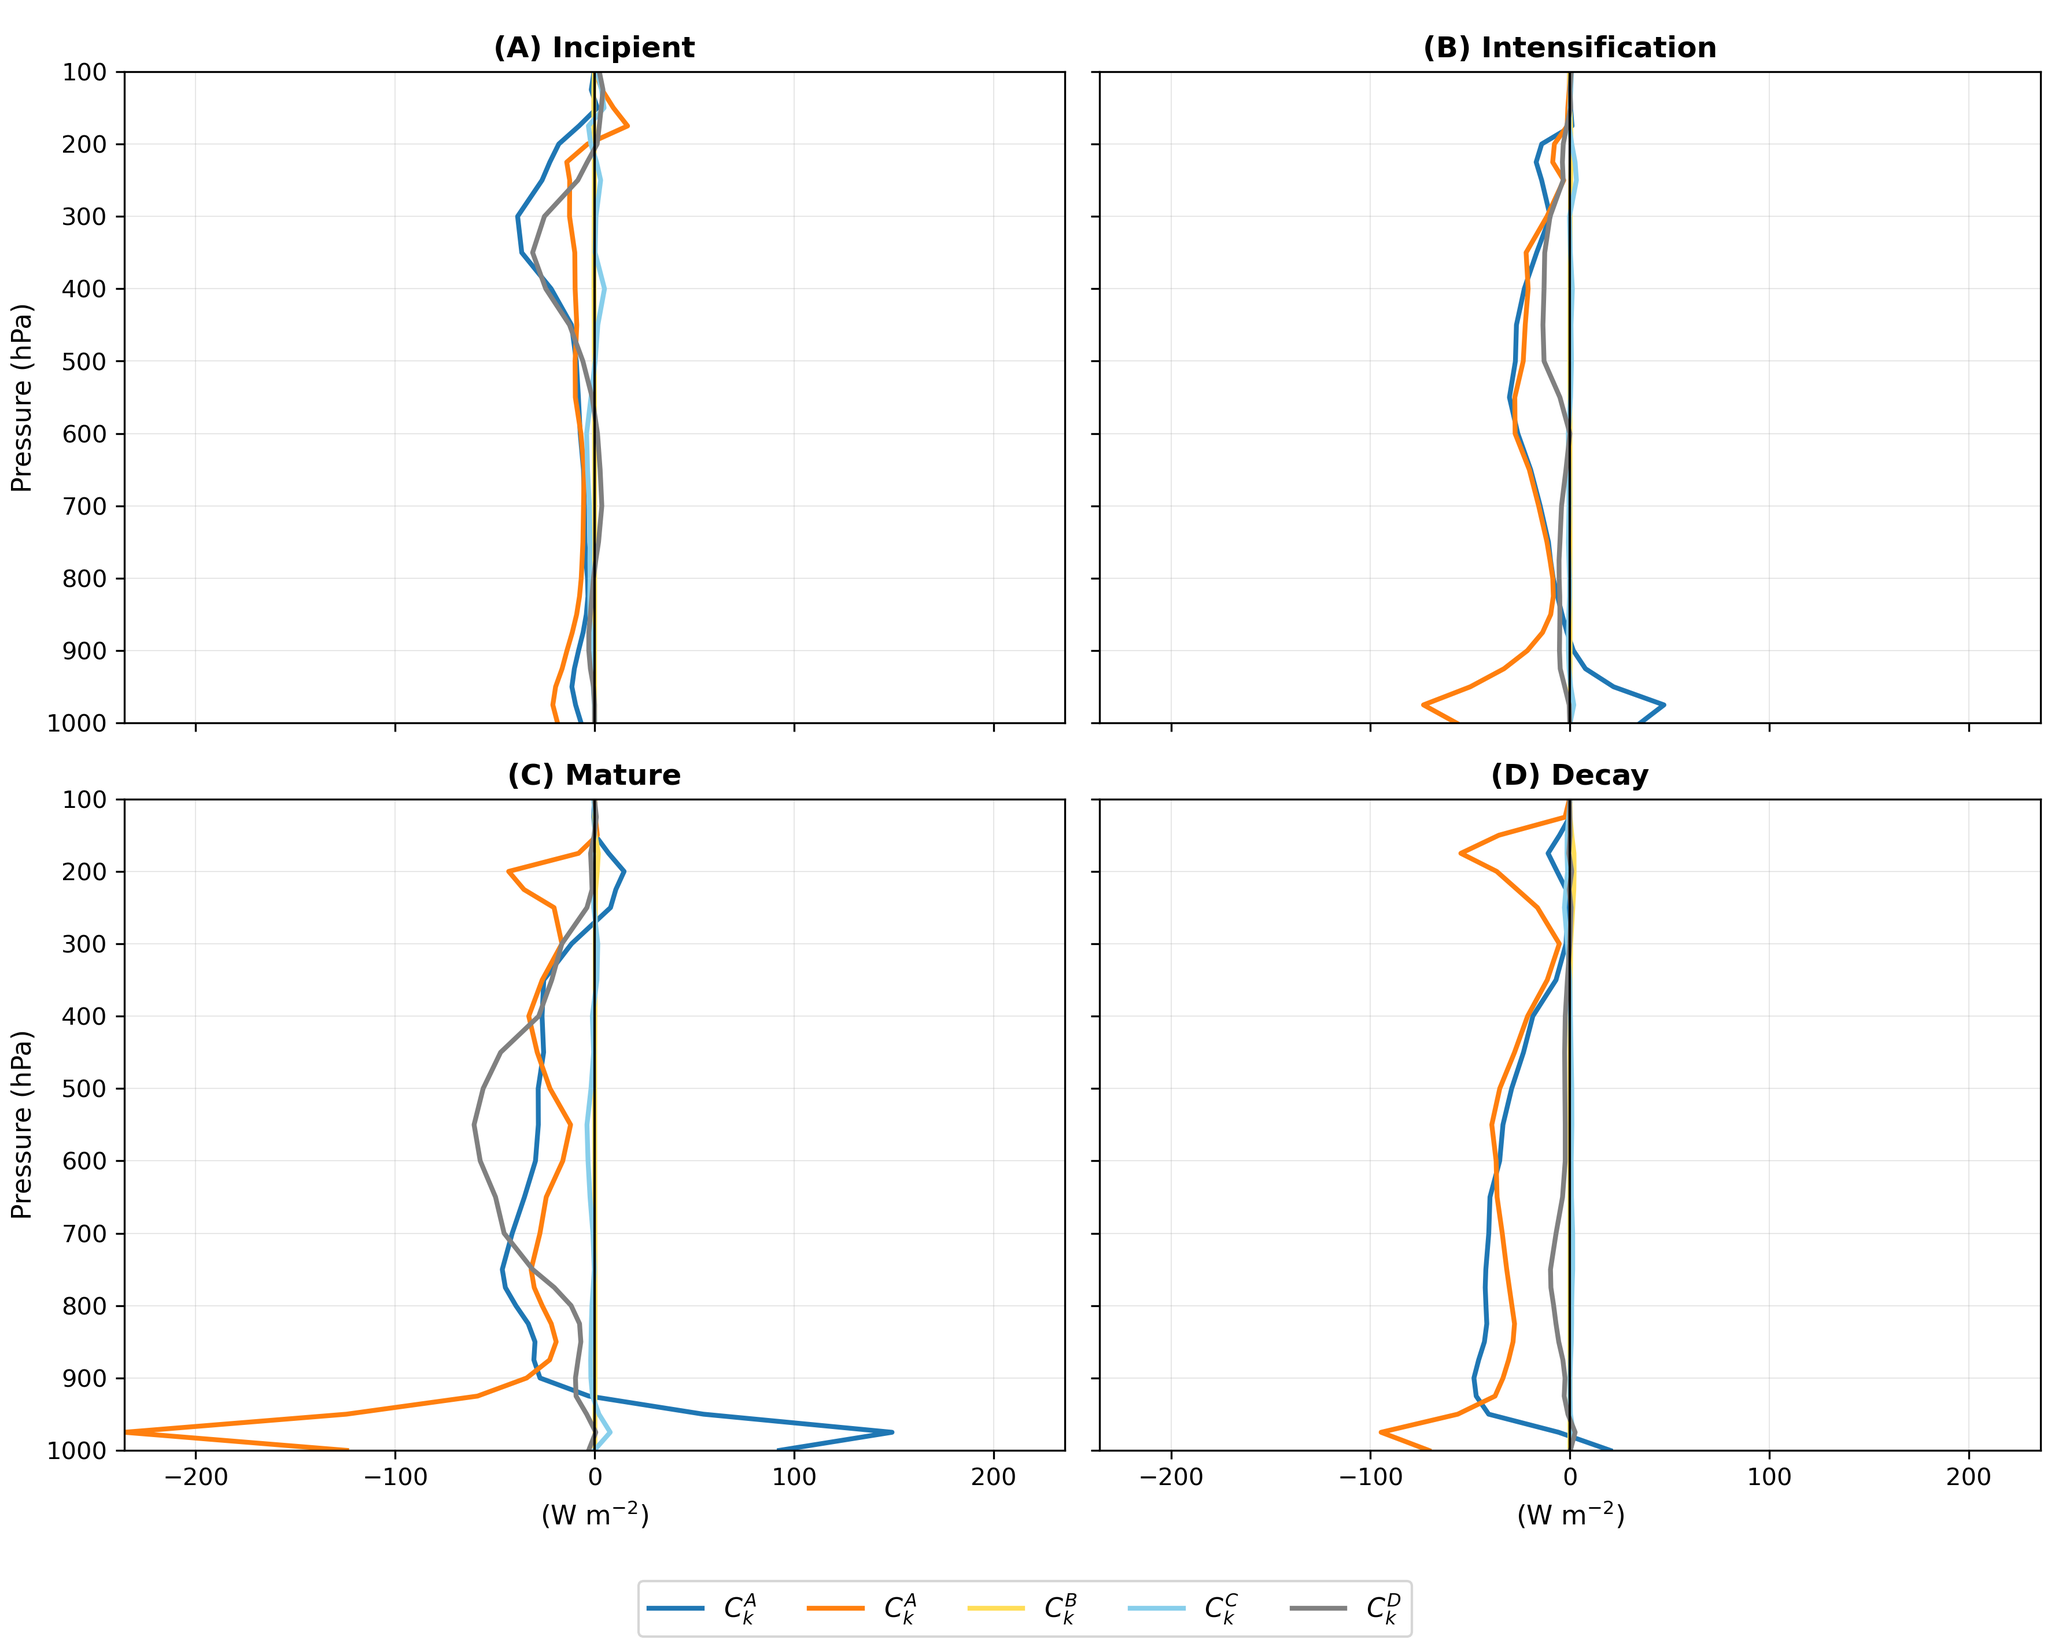
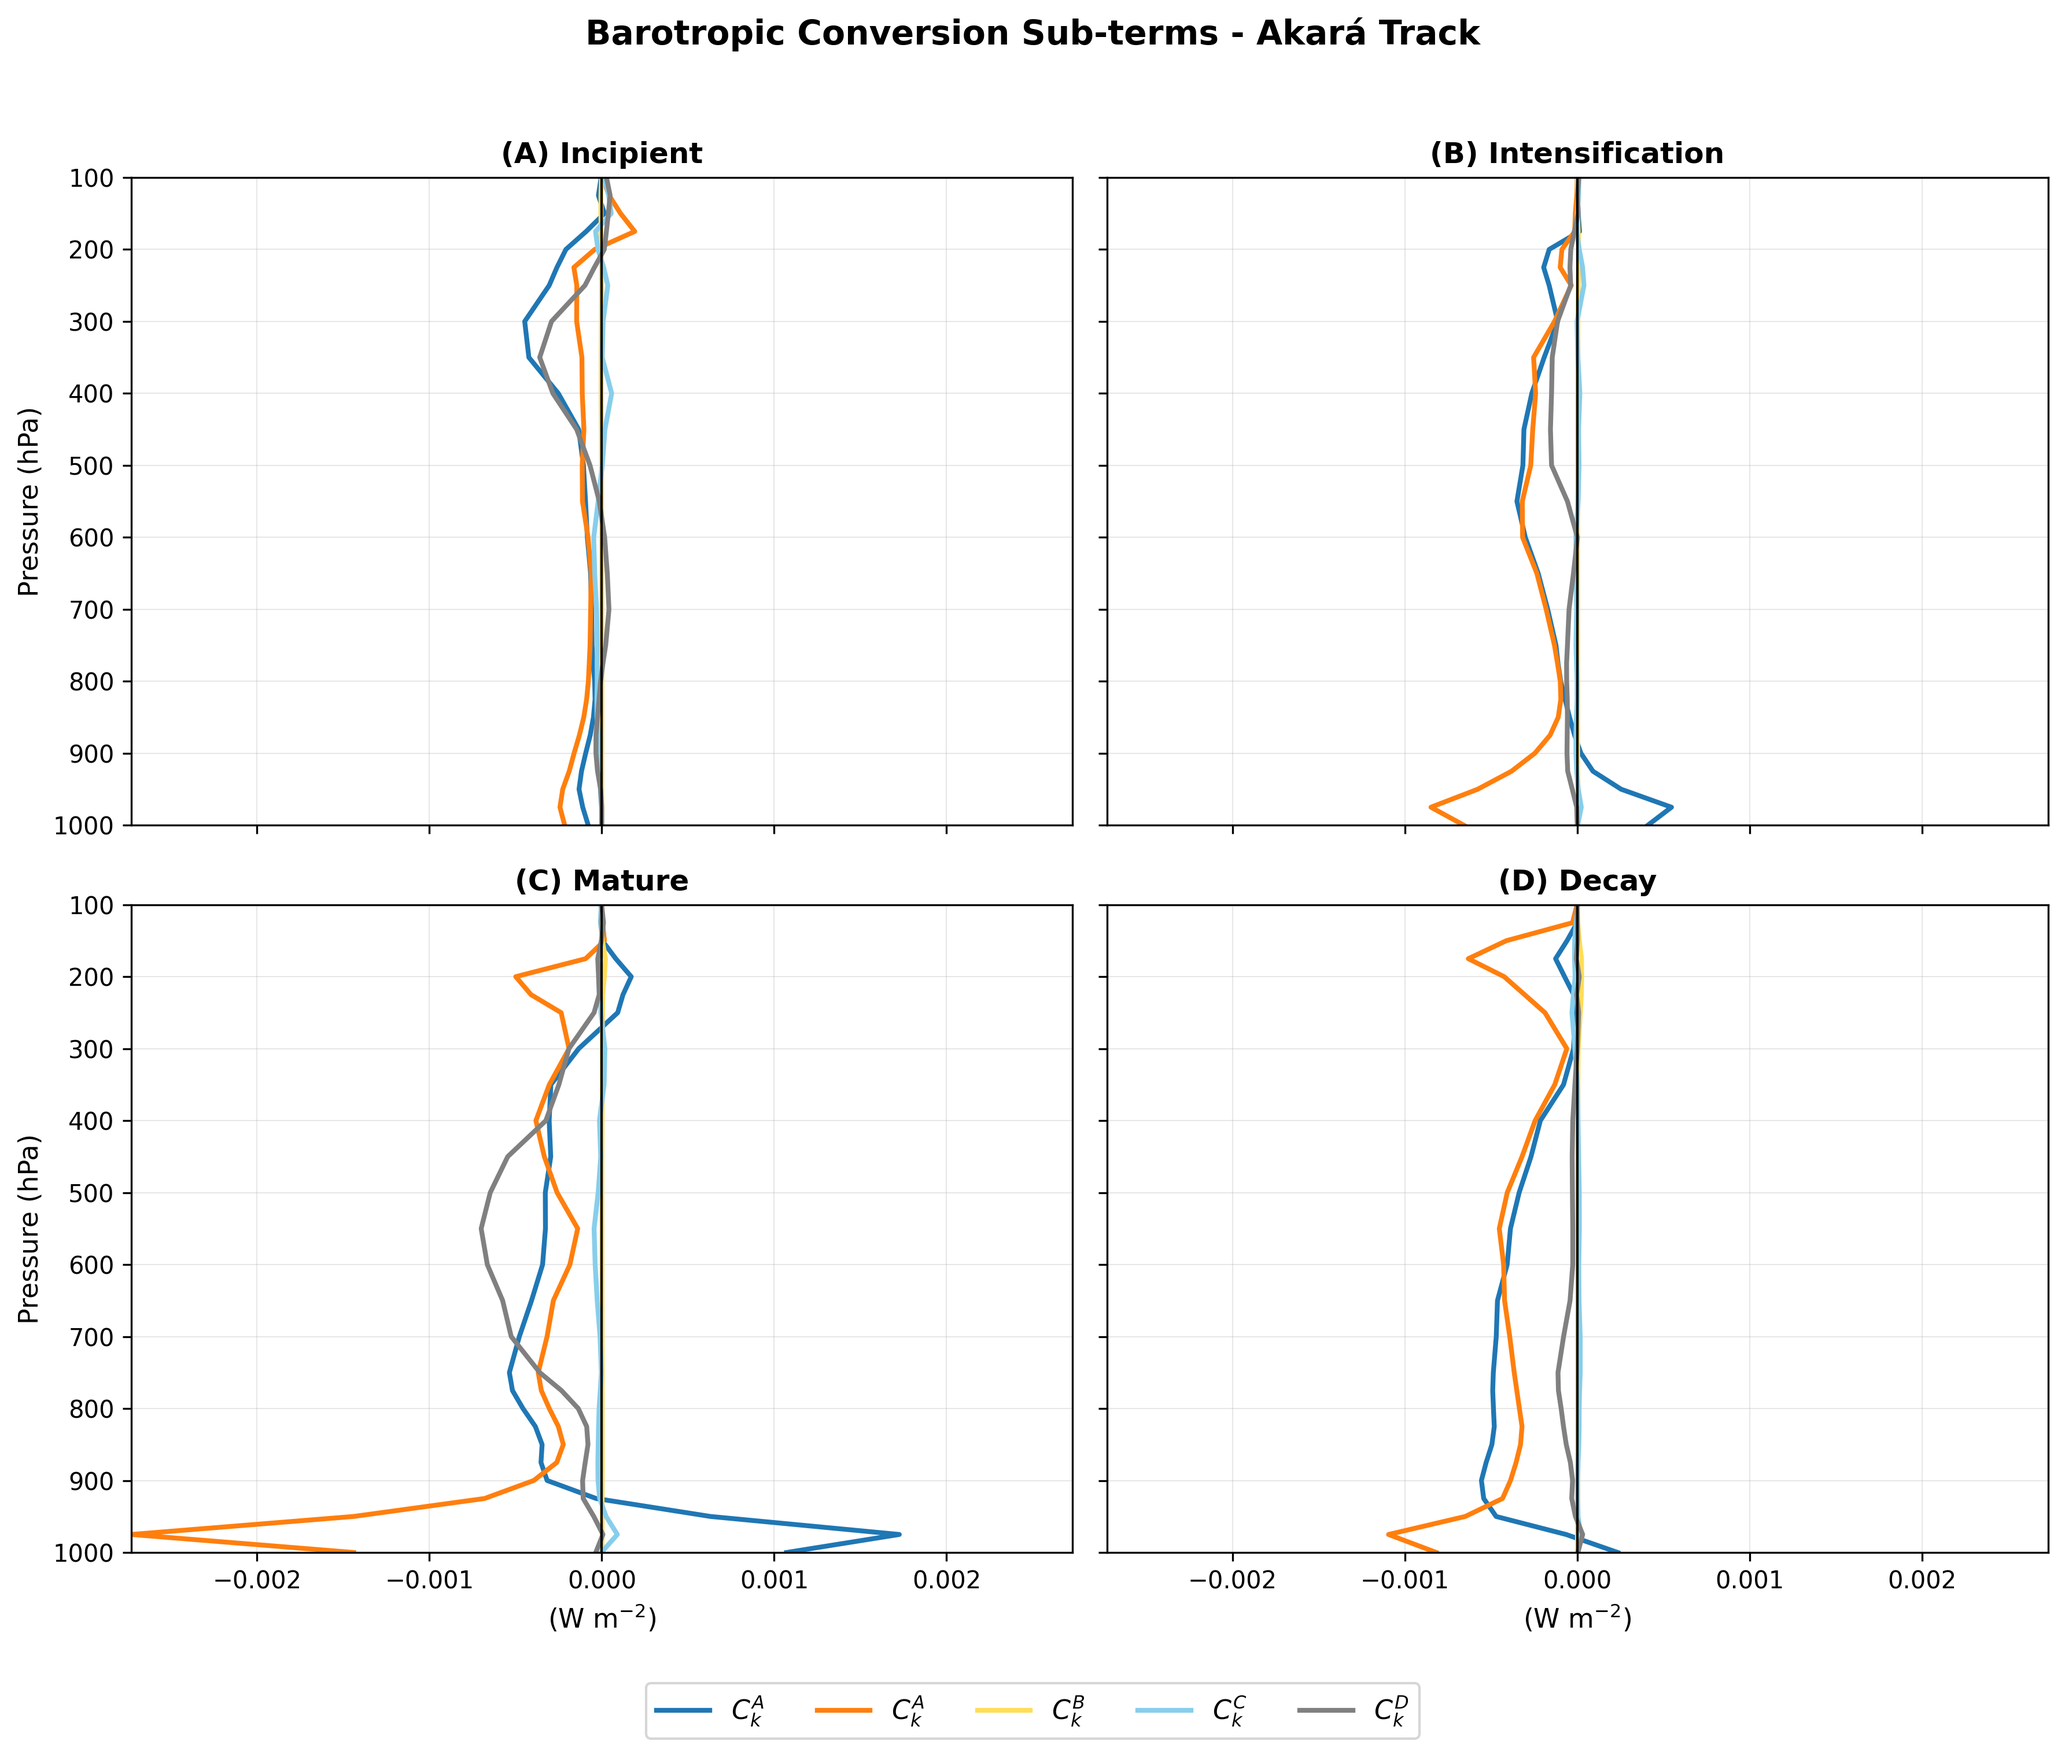
fix: Update base path in vertical profiles script and remove unnecessary scaling

diff --git a/new_files/plot_ck_subterms_vertical_profiles.py b/new_files/plot_ck_subterms_vertical_profiles.py
@@ -11,7 +11,7 @@ from pathlib import Path
 from datetime import datetime
 
 # Define paths
-base_path = Path('/home/daniloceano/Documents/Programs_and_scripts/akara_analysis/new_files/akara1_track')
+base_path = Path('./akara1_track')
 data_path = base_path / 'results_vertical_levels'
 output_path = Path("./")
 output_path.mkdir(exist_ok=True)
@@ -81,7 +81,7 @@ def create_vertical_profiles():
         for term in ck_terms:
             df = load_ck_data(term)
             pressure, values = compute_stage_mean(df, start_time, end_time)
-            values_per_day = values * 86400
+            values_per_day = values
             stage_profiles[term] = (pressure, values_per_day)
             
             # Update global min/max
